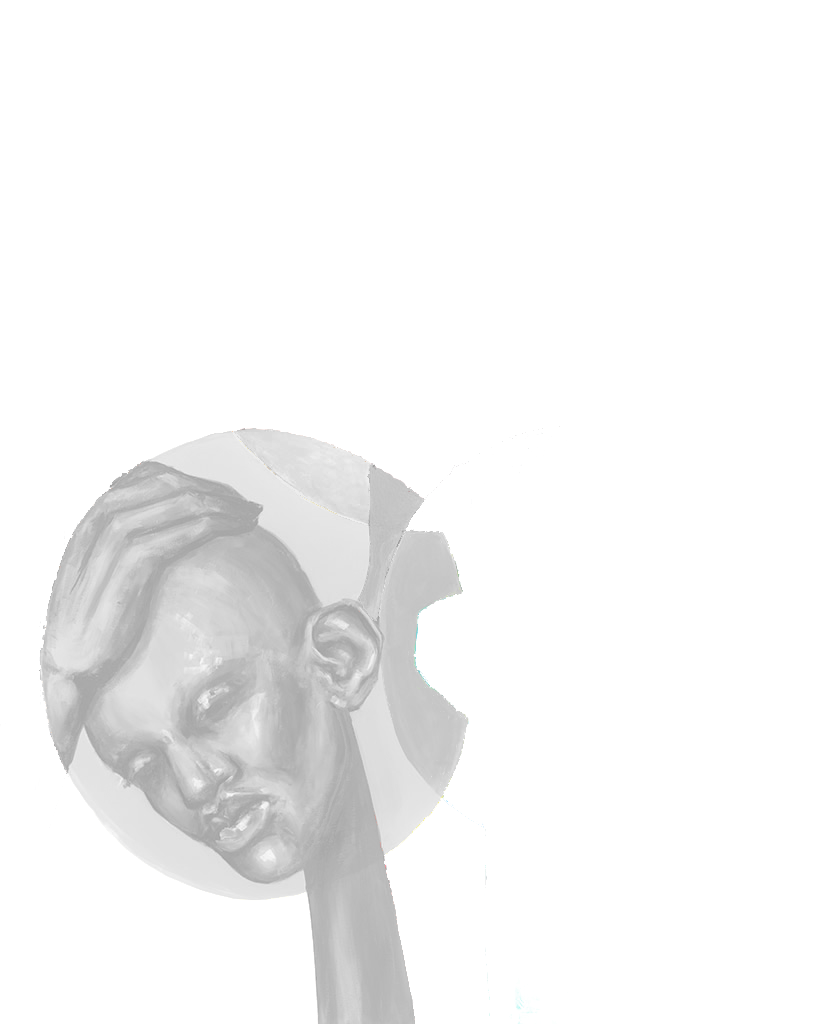
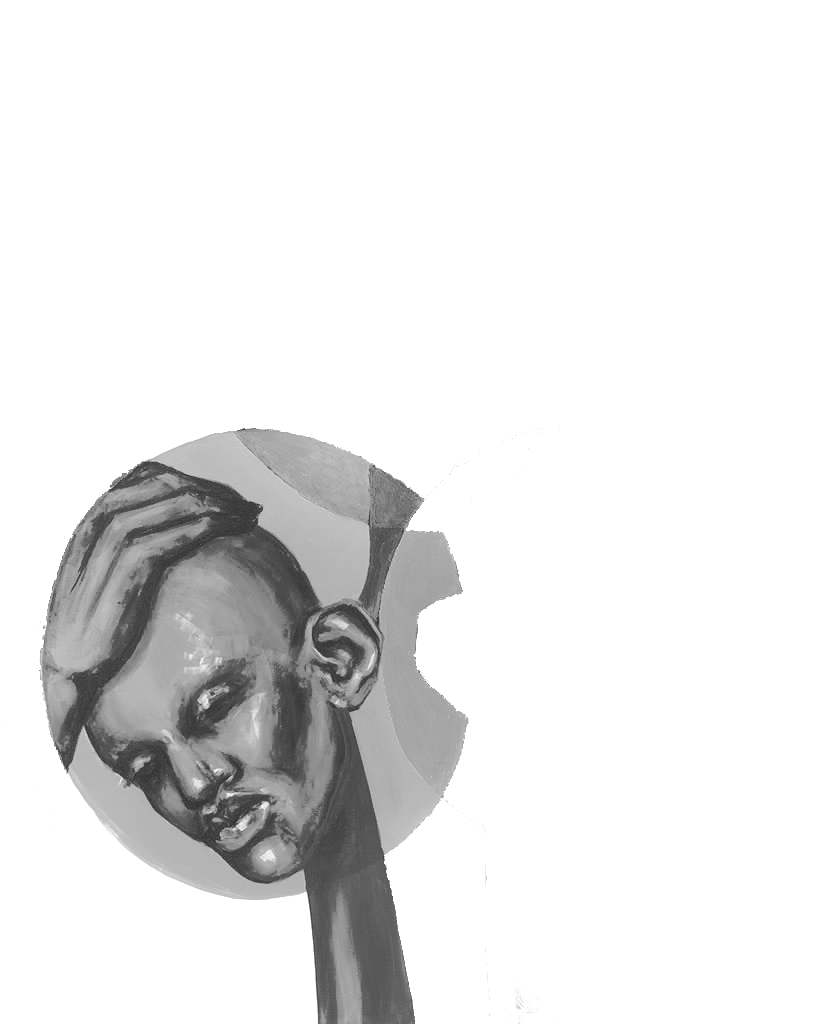
mask tuning in progress

Changed region(s): [[0.0305, 0.4062, 0.5793, 1.0]]

diff --git a/src/sketch/index.js b/src/sketch/index.js
@@ -23,10 +23,10 @@ export default function sketch(s) {
     img_arms = s.loadImage("assets/emoni-img-arms.png");
     // img_arms = s.loadImage('https://live.staticflickr.com/65535/51742071212_27bd347738_o.png')
 
-    // img_red = s.loadImage("assets/emoni-img-red-transp.png");
-    img_red = s.loadImage(
-      "https://live.staticflickr.com/65535/51745064723_57336c1d0f_o.png"
-    );
+    img_red = s.loadImage("assets/emoni-img-red-transp.png");
+    // img_red = s.loadImage(
+    //   "https://live.staticflickr.com/65535/51745064723_57336c1d0f_o.png"
+    // );
 
     img_yellow = s.loadImage("assets/emoni-img-yellow-transp.png");
     // img_yellow = s.loadImage("https://live.staticflickr.com/65535/51745707245_cca103659b_o.png");
